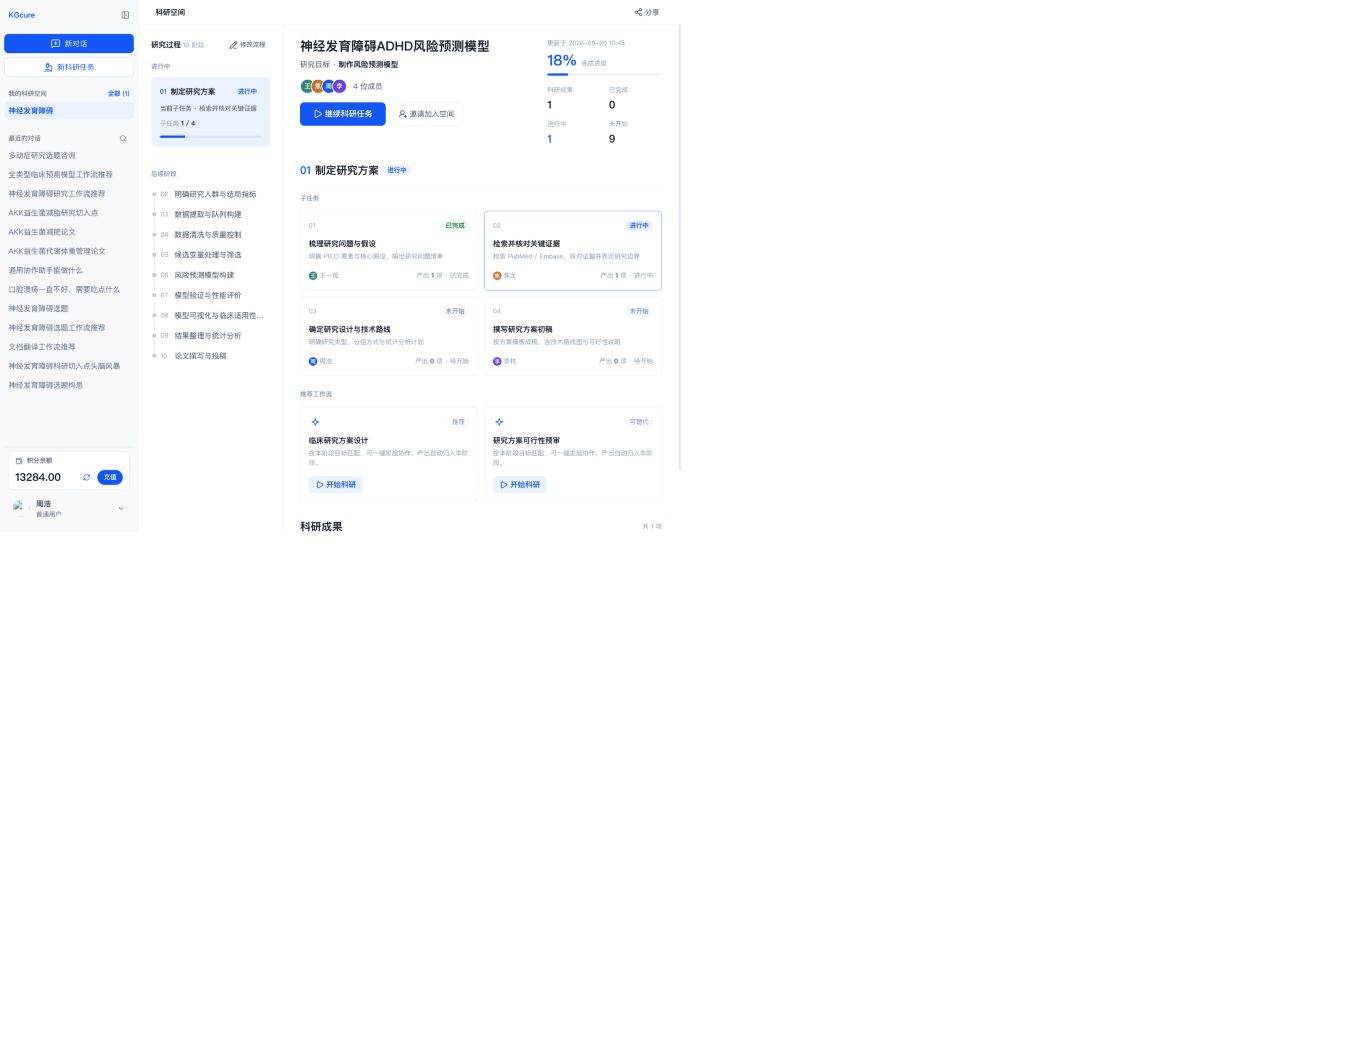
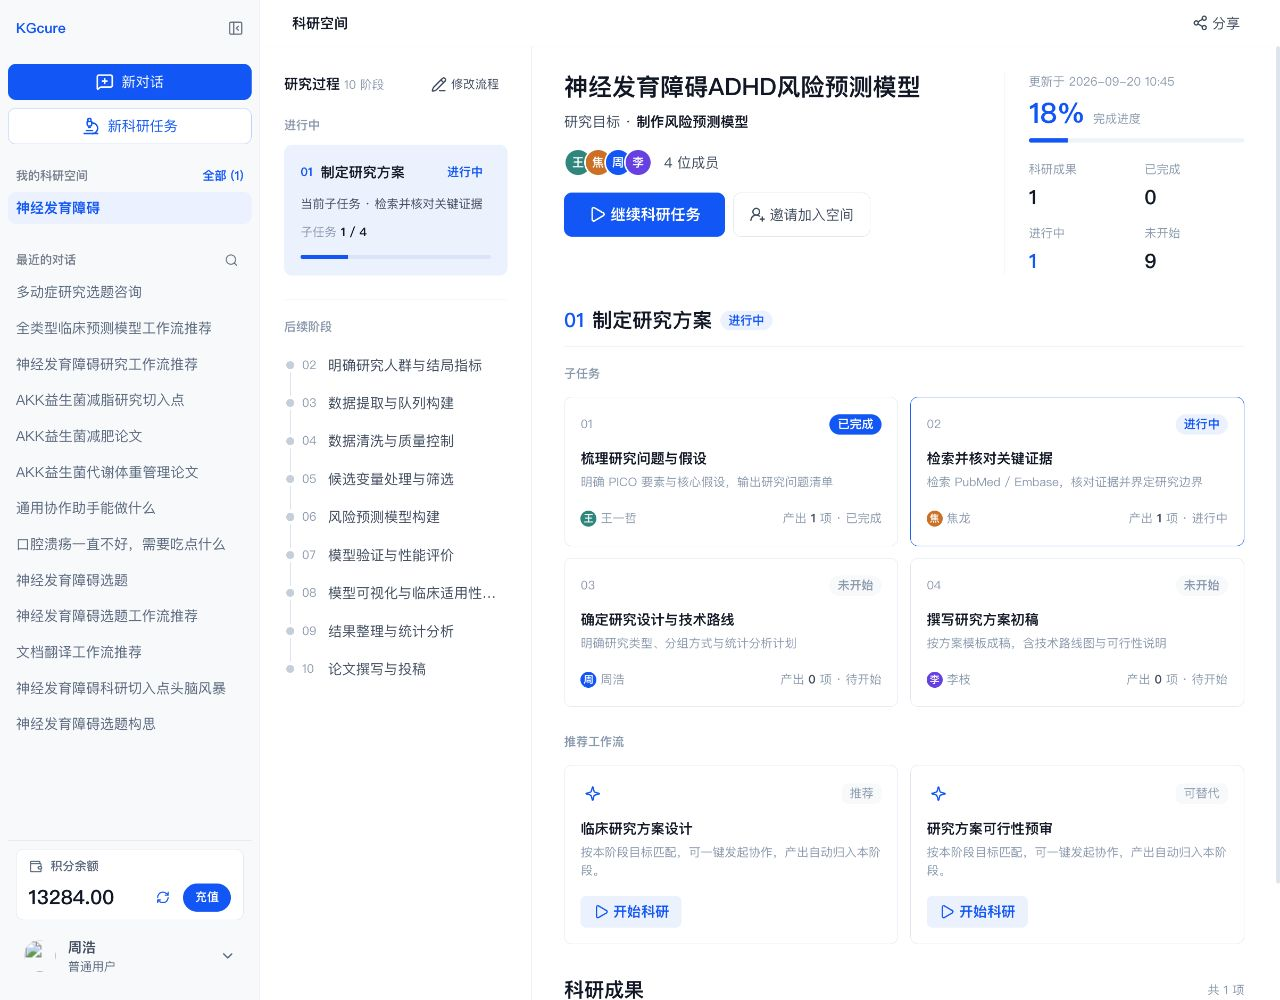
style(v2): 完成态收进品牌蓝，状态三档统一走蓝色系
- 已完成：实心 #1a5bff + 白字（原绿色 #15803d/#eefbf4 移除）
- 进行中：浅蓝底 #eef3ff + 蓝字
- 未开始：浅灰底 + 灰字
- 时间轴完成节点同步改为品牌蓝；README 状态色说明同步更新

diff --git a/styles/redesign.css b/styles/redesign.css
@@ -45,9 +45,7 @@
   --c-primary-hover: #1550e6;
   --c-primary-soft: #eef3ff;
 
-  /* 语义色：成对使用 */
-  --c-success: #15803d;
-  --c-success-soft: #eefbf4;
+  /* 功能色：只保留危险色；完成态收进品牌蓝，不用绿色 */
   --c-danger: #b42318;
   --c-danger-soft: #fef3f2;
   --c-danger-line: #fecdc9;
@@ -328,7 +326,7 @@ main.kg-space-main {
 }
 
 .kg-timeline__dot--done {
-  background: var(--c-success);
+  background: var(--c-primary);
 }
 
 .kg-timeline__no {
@@ -1055,8 +1053,8 @@ main.kg-space-main {
 }
 
 .kg-badge--done {
-  background: var(--c-success-soft);
-  color: var(--c-success);
+  background: var(--c-primary);
+  color: #fff;
 }
 
 .kg-badge--todo {

diff --git a/README.md b/README.md
@@ -41,7 +41,8 @@ Notion（内容优先）、GitHub Primer（语义色成对）、Ant Design（14p
 | 圆角 | 8 卡片 / 6 小元素 / 999 胶囊（另 4 给文件类型徽标） |
 | 中性色 | `#0f172a` 主文字 / `#475569` 次文字 / `#94a3b8` 辅助 / `#e2e8f0` 边框 / `#f1f5f9` 分隔 / `#f8fafc` 浅底 |
 | 品牌色 | `#1a5bff` 主 / `#1550e6` hover / `#eef3ff` 浅底 |
-| 语义色 | 完成 `#15803d` + `#eefbf4`；危险 `#b42318` + `#fef3f2` |
+| 状态色 | 三档全部走品牌蓝：进行中＝浅蓝底 `#eef3ff` + 蓝字；已完成＝实心 `#1a5bff` + 白字；未开始＝浅灰 `#f8fafc` + 灰字（**完成态不用绿色**，绿色只留给"通过/达标"这类真实语义） |
+| 功能色 | 危险 `#b42318` + `#fef3f2` |
 | 边框 | 只两种：卡片 1px `#e2e8f0`、区块分隔 1px `#f1f5f9` |
 | 卡片 | 统一规格：圆角 8 + 1px 边框 + 内边距 16 + 无阴影，hover 只变边框色 |
 | 数字 | 全部 `tabular-nums`，跨卡片基线对齐 |
